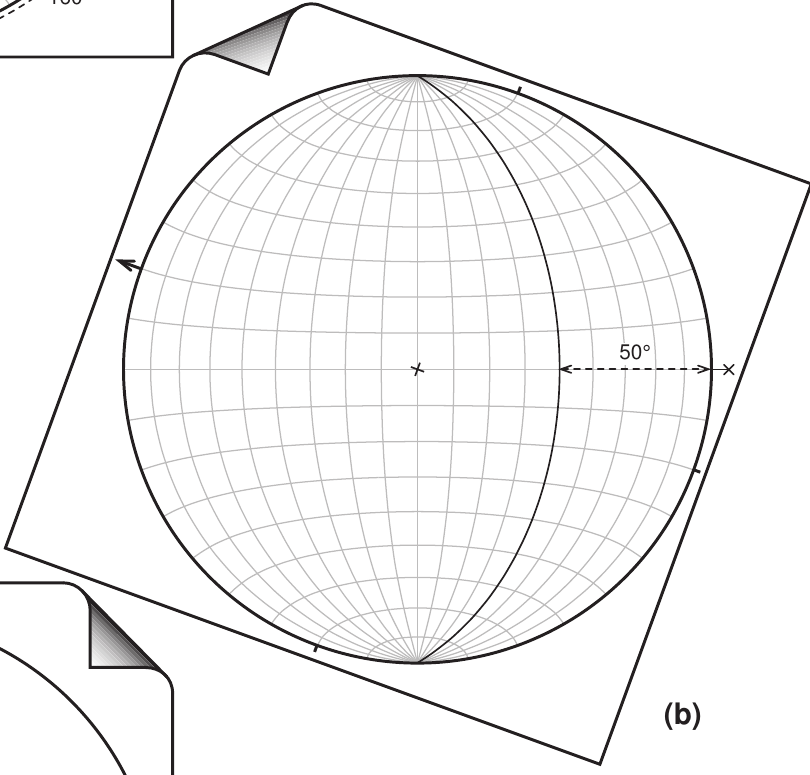
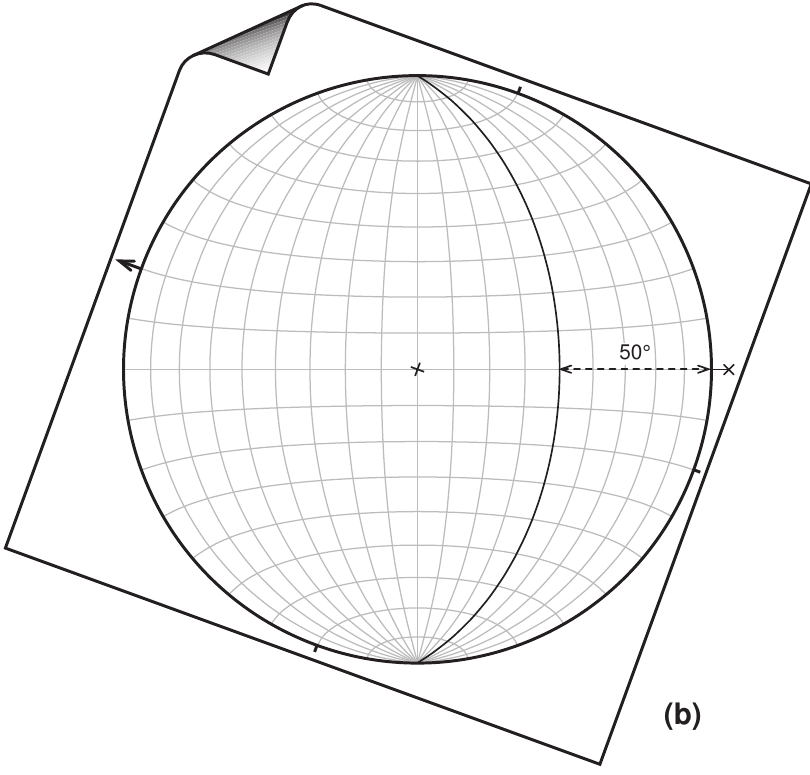
aggiorno

diff --git a/geo/rilevamento_geologico/appunti.md b/geo/rilevamento_geologico/appunti.md
@@ -97,6 +97,12 @@ La procedura qui sopra fa disegnare correttamente anche le superfici verticali, 
 > Piani molto inclinati o subverticali daranno tracce ciclografiche poco convesse e passanti per la parte centrale del cerchio primitivo.  
 > **Piani verticali** verranno rappresentati con linee che passano per il centro del cerchio principale. ([Conti, 2019, p. 22](zotero://select/library/items/BEUCH8LZ)) ([pdf](zotero://open-pdf/library/items/THGF3XVB?page=26))
 
+![Conti 2019 figura 4.3a, proiezione piano immersione/inclinazione 160/50](stereo_conti_proiezione_piano_a.png)
+
+![Conti 2019 figura 4.3b, proiezione piano immersione/inclinazione 160/50](stereo_conti_proiezione_piano_b.png)
+
+![Conti 2019 figura 4.3c, proiezione piano immersione/inclinazione 160/50](stereo_conti_proiezione_piano_c.png)
+
 
 # Proiezione di linee che giacciono su una superficie
 0) È necessario conoscere il _pitch_ della linea.
